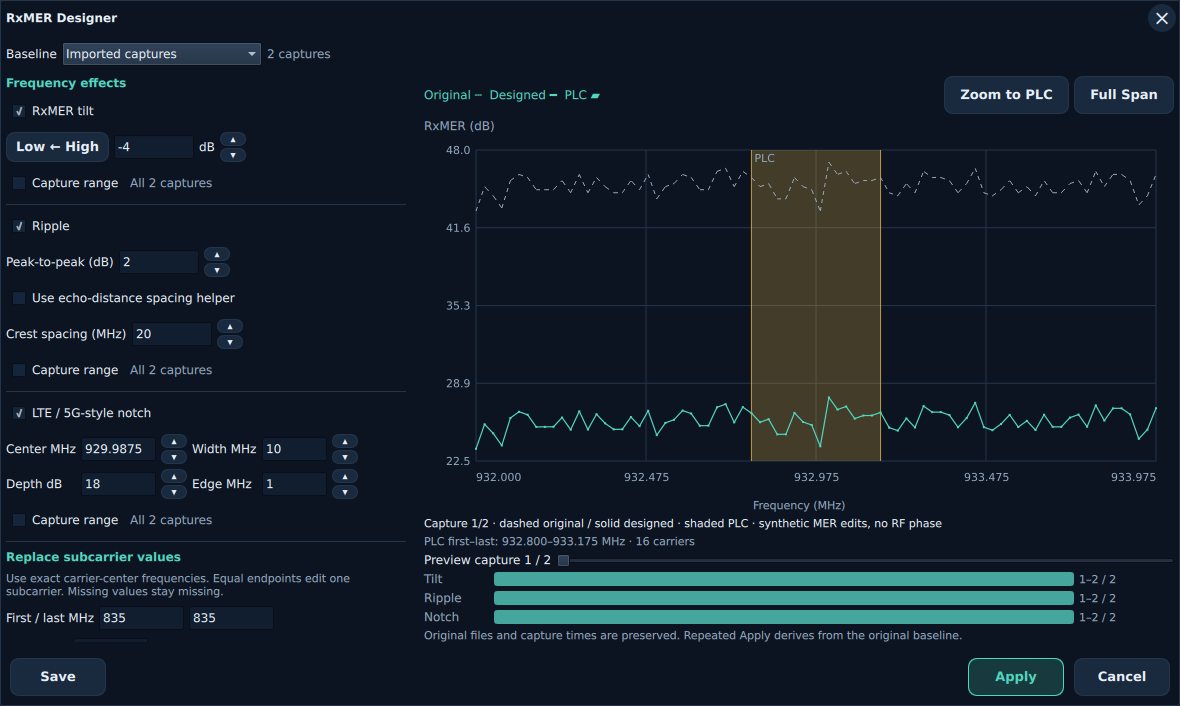
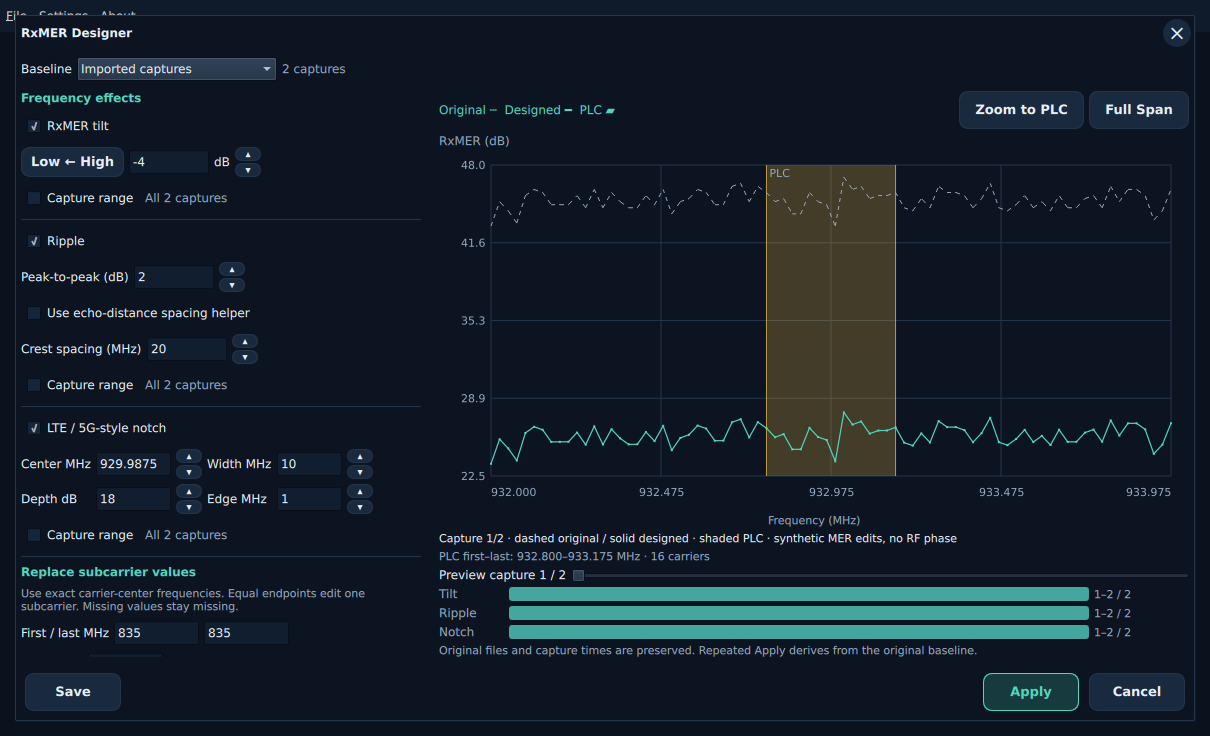
BugFix: Keep notch arrows inside the effects editor - Reflow notch fields using native font widths - Cover wide and large-font mouse interactions - Refresh Designer documentation and screenshots - Tests: 82 adapter and 77 QML checks pass

diff --git a/apps/qt/qml/inputs/measurement_input/RxmerDesignerDialog.qml b/apps/qt/qml/inputs/measurement_input/RxmerDesignerDialog.qml
@@ -154,10 +154,11 @@ WorkbenchDialog {
         RowLayout {
             Layout.fillWidth:true;Layout.fillHeight:true;spacing:18
             ScrollView {
+                id:effectsScroll;objectName:"designerEffectsScroll"
                 Layout.preferredWidth:400;Layout.fillHeight:true;clip:true;enabled:!dialog.working
                 contentWidth:availableWidth
                 ColumnLayout {
-                    width:parent.width;spacing:8
+                    width:effectsScroll.availableWidth;spacing:8
                     Label {text:"Frequency effects";color:theme.accent;font.bold:true}
                     CheckBox {id:tilt;objectName:"designerTilt";text:"RxMER tilt";onToggled:dialog.refresh()}
                     RowLayout {enabled:tilt.checked;opacity:enabled ? 1:0.5
@@ -236,8 +237,16 @@ TextField {id:vf;text:"0.85";Layout.preferredWidth:65;onEditingFinished:dialog.r
                     RxmerDesignScope {id:rippleScope;theme:dialog.theme;captureCount:dialog.captureCount;onEdited:dialog.refresh()}
                     Rectangle {Layout.fillWidth:true;height:1;color:theme.line}
                     CheckBox {id:notch;objectName:"designerNotch";text:"LTE / 5G-style notch";onToggled:dialog.refresh();ToolTip.visible:hovered || activeFocus;ToolTip.text:"Synthetic reduction in MER over a frequency band, not an LTE or 5G waveform simulation."}
-                    GridLayout {columns:6
-                        Label {text:"Center MHz";color:theme.text}
+                    GridLayout {
+                        id:notchFields;objectName:"designerNotchFields"
+                        Layout.fillWidth:true
+                        // Native font metrics can make two groups exceed the editor's clip.
+                        readonly property real pairedWidth: Math.max(notchCenterLabel.implicitWidth,notchDepthLabel.implicitWidth)
+                            + center.Layout.preferredWidth + notchCenterSteps.implicitWidth
+                            + Math.max(notchWidthLabel.implicitWidth,notchEdgeLabel.implicitWidth)
+                            + bandwidth.Layout.preferredWidth + notchWidthSteps.implicitWidth + 5*columnSpacing
+                        columns:effectsScroll.availableWidth>=pairedWidth ? 6:3
+                        Label {id:notchCenterLabel;text:"Center MHz";color:theme.text}
                         TextField {
                             id:center;objectName:"designerNotchCenter";text:"";Layout.preferredWidth:75
                             Accessible.name:"Notch center in MHz"
@@ -246,14 +255,14 @@ TextField {id:vf;text:"0.85";Layout.preferredWidth:65;onEditingFinished:dialog.r
                             Keys.onDownPressed:dialog.stepNotch(center,-1)
                         }
                         StepButtons {
-                            theme:dialog.theme;namePrefix:"designerNotchCenter"
+                            id:notchCenterSteps;theme:dialog.theme;namePrefix:"designerNotchCenter"
                             canIncrease:dialog.canStepNotch(center,1);canDecrease:dialog.canStepNotch(center,-1)
                             increaseDescription:"Increase notch center by 1 MHz"
                             decreaseDescription:"Decrease notch center by 1 MHz"
                             onIncreaseRequested:dialog.stepNotch(center,1)
                             onDecreaseRequested:dialog.stepNotch(center,-1)
                         }
-                        Label {text:"Width MHz";color:theme.text}
+                        Label {id:notchWidthLabel;text:"Width MHz";color:theme.text}
                         TextField {
                             id:bandwidth;objectName:"designerNotchWidth";text:"10";Layout.preferredWidth:65
                             Accessible.name:"Notch width in MHz"
@@ -262,14 +271,14 @@ TextField {id:vf;text:"0.85";Layout.preferredWidth:65;onEditingFinished:dialog.r
                             Keys.onDownPressed:dialog.stepNotch(bandwidth,-1)
                         }
                         StepButtons {
-                            theme:dialog.theme;namePrefix:"designerNotchWidth"
+                            id:notchWidthSteps;theme:dialog.theme;namePrefix:"designerNotchWidth"
                             canIncrease:dialog.canStepNotch(bandwidth,1);canDecrease:dialog.canStepNotch(bandwidth,-1)
                             increaseDescription:"Increase notch width by 1 MHz"
                             decreaseDescription:"Decrease notch width by 1 MHz"
                             onIncreaseRequested:dialog.stepNotch(bandwidth,1)
                             onDecreaseRequested:dialog.stepNotch(bandwidth,-1)
                         }
-                        Label {text:"Depth dB";color:theme.text}
+                        Label {id:notchDepthLabel;text:"Depth dB";color:theme.text}
                         TextField {
                             id:depth;objectName:"designerNotchDepth";text:"18";Layout.preferredWidth:75
                             Accessible.name:"Notch depth in dB"
@@ -285,7 +294,7 @@ TextField {id:vf;text:"0.85";Layout.preferredWidth:65;onEditingFinished:dialog.r
                             onIncreaseRequested:dialog.stepNotch(depth,1)
                             onDecreaseRequested:dialog.stepNotch(depth,-1)
                         }
-                        Label {text:"Edge MHz";color:theme.text}
+                        Label {id:notchEdgeLabel;text:"Edge MHz";color:theme.text}
                         TextField {
                             id:edge;objectName:"designerNotchEdge";text:"1";Layout.preferredWidth:65
                             Accessible.name:"Notch edge in MHz"

diff --git a/apps/qt/tests/tst_rxmer_designer.qml b/apps/qt/tests/tst_rxmer_designer.qml
@@ -4,6 +4,7 @@
  */
 import QtQuick
 import QtQuick.Controls
+import QtQuick.Layouts
 import QtTest
 import "../qml/theme"
 import "../qml/inputs/measurement_input"
@@ -151,6 +152,36 @@ Pane {
             depth.text="2.5";dialog.stepNotch(depth,1);compare(backend.lastRequest.recipe.notch.depth_db,3.5)
             findChild(dialog,"designerNotch").checked=false
             dialog.stepNotch(depth,1);compare(depth.text,"3.5")
+        }
+        function test_notch_mouse_steps_fit_editor_with_large_font(){
+            const originalSize=dialog.font.pixelSize
+            const scroll=findChild(dialog,"designerEffectsScroll")
+            const originalWidth=scroll.Layout.preferredWidth
+            try {
+                dialog.font.pixelSize=12;scroll.Layout.preferredWidth=600
+                dialog.open();tryCompare(dialog,"visible",true)
+                verify(waitForRendering(dialog.contentItem))
+                compare(findChild(dialog,"designerNotchFields").columns,6)
+                dialog.font.pixelSize=18;scroll.Layout.preferredWidth=350
+                findChild(dialog,"designerNotch").checked=true
+                verify(waitForRendering(dialog.contentItem))
+                compare(findChild(dialog,"designerNotchFields").columns,3)
+                for (const name of ["Center","Width","Depth","Edge"]) {
+                    const field=findChild(dialog,"designerNotch"+name)
+                    const up=findChild(dialog,"designerNotch"+name+"Up")
+                    const down=findChild(dialog,"designerNotch"+name+"Down")
+                    verify(up.enabled);verify(down.enabled)
+                    const point=up.mapToItem(scroll,0,0)
+                    verify(point.x>=0 && point.x+up.width<=scroll.width,name+" arrow is horizontally clipped")
+                    verify(point.y>=0 && point.y+up.height<=scroll.height,name+" arrow is vertically clipped")
+                    const value=Number(field.text)
+                    mouseClick(up);compare(Number(field.text),value+1,name+" mouse increase")
+                    mouseClick(down);compare(Number(field.text),value,name+" mouse decrease")
+                }
+            } finally {
+                dialog.font.pixelSize=originalSize
+                scroll.Layout.preferredWidth=originalWidth
+            }
         }
         function test_json_save_remains_available_outside_binary_range(){
             backend.exportAllowed=false;backend.exportSaves=0

diff --git a/docs/development/features/rxmer-designer/validation.md b/docs/development/features/rxmer-designer/validation.md
@@ -132,3 +132,24 @@ No Windows native compilation/runtime, MSI lifecycle, macOS or other Python ABI
 was tested. Collection publication returns unsupported outside Linux/Windows.
 The passing local checks do not establish modem interoperability or DOCSIS 4.0
 file-format equivalence. Nothing was committed, published or installed system-wide.
+
+## RXMER-DESIGN-12: native-font clipping regression
+
+[v0.3.0 release run](https://github.com/mgarcia01752/merlin/actions/runs/43696778449)
+failed the Windows notch width mouse step. Local Qt 6.8.3 reproduction with an
+18 px dialog font likewise left width at 10: its arrow was outside the clipped
+400 px editor. The responsive grid now selects one or two groups per row from
+actual available width and native font metrics. Its parent column uses the
+scroll view's available width directly, avoiding implicit-width feedback.
+
+The final `scripts/qt-desktop.sh check` passes formatting, warnings-denied
+Clippy, 82 Rust adapter tests (54.49 s), native build and 77 QML checks (13.27 s).
+Designer-only coverage passes all 14 cases, including both column counts,
+large-font/narrow-editor clip bounds and mouse stepping for center, width,
+depth and edge. Scientific calculations and all disabled/input guards are unchanged.
+A rebuilt native VM window also accepted width 10 → 11 → 10 using the mouse.
+Refreshed full-span and PLC-zoom dark screenshots show actual imported captures,
+−4 dB tilt, 2 dB ripple and an 18 dB/10 MHz notch. Originals were not overwritten;
+the review process closed without applying or saving the draft. Local logs are
+ignored under `docs/development/local/release-monitor/`. Hosted Windows validation
+requires the pending patch release; Linux success is not Windows verification.

diff --git a/docs/development/features/rxmer-designer/design.md b/docs/development/features/rxmer-designer/design.md
@@ -188,3 +188,20 @@ single JSON/binary and two-capture collection saves, and installed viewer decode
 were verified. Python export/lifecycle/selection parity passed with a rebuilt
 local cp310 Linux wheel. See [validation](validation.md#rxmer-design-11-binary-and-json-save)
 for timings, evidence boundaries and unverified targets.
+
+## RXMER-DESIGN-12: font-aware notch field layout
+
+Release v0.3.0 Windows QML testing failed the notch width mouse step (10 remained
+10 instead of 11). Reproduced locally with an 18 px dialog font: the six-column
+notch grid extends its width arrow beyond the clipped 400 px editor. Preserve
+all validation and actions. Measure the two groups from label/field/arrow widths
+and grid spacing, then select six columns only when they fit; otherwise use
+three columns, one label/field/arrow group per row. Test the actual mouse actions
+and clip bounds at a larger font as well as the existing normal-font sequence.
+Run native Qt checks and retain layout screenshots. Scientific behavior is unchanged.
+
+The effects column is explicitly sized from ScrollView.availableWidth. Reflow
+uses that available width rather than the grid's own implicit width, avoiding a
+self-constraining layout. Regression coverage checks a 12 px font in a 600 px
+editor (six columns) and an 18 px font in a 350 px editor (three columns), then
+verifies visible arrow bounds and mouse steps on all four fields.

diff --git a/docs/architecture.md b/docs/architecture.md
@@ -2380,3 +2380,11 @@ adds no simulation logic to Python or Qt dependencies. Only tested wheel/checksu
 artifacts enter release collection; both platforms and existing security/native
 gates are mandatory. Windows remains unverified until its hosted job passes.
 See the [separate wheel release guide](user/python/releases.md).
+
+### Font-aware Designer notch controls (RXMER-DESIGN-12)
+
+The Qt Designer notch grid compares its available width with the measured label,
+field and arrow widths. It uses two groups per row when they fit, otherwise one
+group per row, keeping mouse targets within the clipped effects editor. This is
+presentation only; existing Rust validation, frequency units and recipe semantics
+are unchanged. [Design](development/features/rxmer-designer/design.md#rxmer-design-12-font-aware-notch-field-layout).

diff --git a/docs/user/measurement-inputs/rxmer-designer.md b/docs/user/measurement-inputs/rxmer-designer.md
@@ -33,7 +33,9 @@ field’s Up/Down keys remain available. Arrows are disabled until the effect is
 enabled, and cannot step outside valid bounds. Crest-spacing arrows are inactive
 when the echo-distance helper is selected. A notch must remain inside the
 capture frequency range, with edge width no greater than half its total width.
-Changing a field preserves the capture range and chart zoom.
+Changing a field preserves the capture range and chart zoom. With larger fonts
+or a narrow editor, notch controls stack one label/field/arrow group per row so
+the arrows remain inside the visible editor.
 
 The preview overlays the original dashed curve and
 the designed solid curve on the same RxMER axis. A single shaded **PLC** region

diff --git a/docs/development/checklist.md b/docs/development/checklist.md
@@ -1519,3 +1519,8 @@ validation are complete; the user guide includes the current dark capture.
   and Bash for Ubuntu; fold shared smoke arguments portably. Local YAML and
   tooling checks pass; hosted patch verification remains pending.
   [Failure and fix](features/high-level-api/design.md#api-wheel-02-native-windows-shell-and-linker).
+
+- [x] **RXMER-DESIGN-12** Keep notch arrows clickable with native larger fonts
+  using measured-width layout reflow. All 82 adapter/77 QML checks and native
+  mouse stepping pass; refresh Designer images. Hosted Windows patch is pending.
+  [Design](features/rxmer-designer/design.md#rxmer-design-12-font-aware-notch-field-layout).
